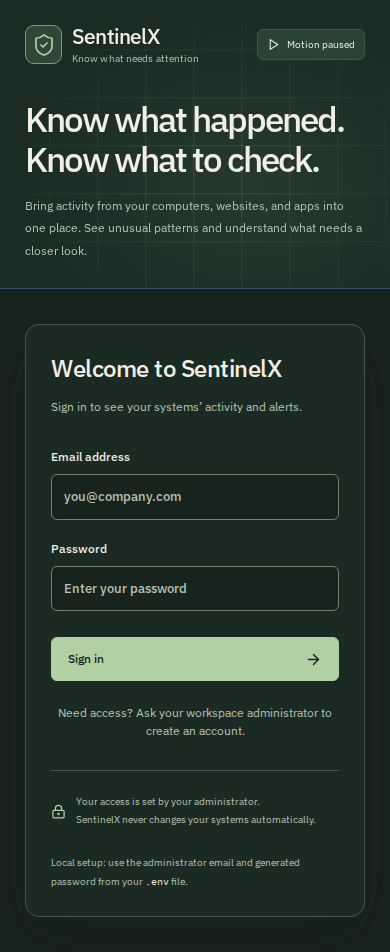
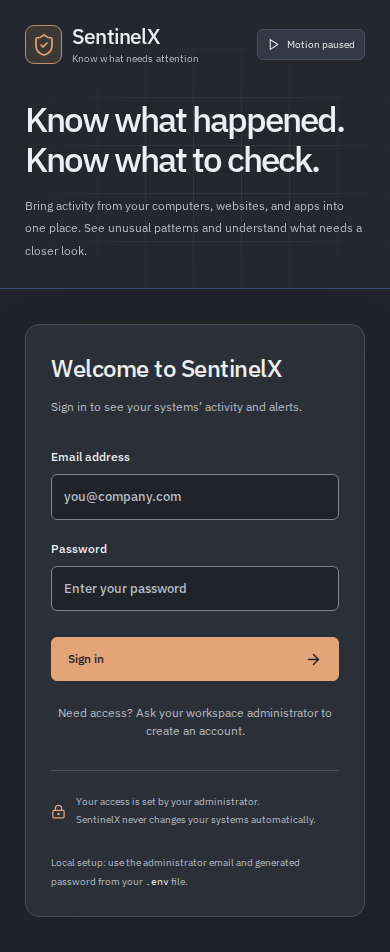
feat: frontend improvised

Changed region(s): [[0.1231, 0.6702, 0.8923, 0.7311], [0.0615, 0.0305, 0.1538, 0.0609]]

diff --git a/frontend/src/styles.css b/frontend/src/styles.css
@@ -11,27 +11,27 @@
     -apple-system,
     BlinkMacSystemFont,
     sans-serif;
-  color: #f2efe5;
-  background: #17231d;
+  color: #edeff2;
+  background: #202329;
   font-size: 15px;
   font-synthesis: none;
   text-rendering: optimizeLegibility;
   -webkit-font-smoothing: antialiased;
   color-scheme: dark;
-  --canvas: #17231d;
-  --sidebar: #1a2c24;
-  --surface: #23382e;
-  --surface-raised: #2b4336;
-  --line: #41554a;
-  --control-line: #72826e;
-  --muted: #b7c3b5;
-  --text: #f2efe5;
-  --accent: #b1d1a4;
-  --accent-hover: #c7dfbe;
-  --accent-surface: #314735;
-  --accent-border: #7f9b7d;
+  --canvas: #202329;
+  --sidebar: #24272d;
+  --surface: #2b3038;
+  --surface-raised: #333944;
+  --line: #49505a;
+  --control-line: #7c838d;
+  --muted: #b6bcc5;
+  --text: #edeff2;
+  --accent: #e3a478;
+  --accent-hover: #f0bc97;
+  --accent-surface: #3e3834;
+  --accent-border: #b98d6e;
   --blue: var(--accent);
-  --teal: #9bc9ad;
+  --teal: #93c9b2;
   --critical: #ff8e9c;
   --high: #f6b07b;
   --medium: #e8cb7c;
@@ -183,7 +183,7 @@ code {
 }
 .button.primary {
   background: var(--accent);
-  color: #17231d;
+  color: var(--canvas);
   border-color: var(--accent);
 }
 .button.primary:hover {
@@ -513,6 +513,9 @@ code {
 .nav-item.active {
   color: var(--text);
   background: var(--accent-surface);
+}
+.nav-item.active > svg {
+  color: var(--accent);
 }
 .nav-item.active::before {
   content: "";
@@ -1368,7 +1371,7 @@ tbody tr:hover {
   position: fixed;
   inset: 0;
   z-index: 100;
-  background: #101912be;
+  background: #15171bd1;
   backdrop-filter: blur(4px);
   display: flex;
   align-items: center;
@@ -2852,13 +2855,6 @@ tbody tr:hover {
   position: relative;
   overflow: hidden;
 }
-.login-story::before {
-  content: "";
-  position: absolute;
-  inset: 0;
-  background: radial-gradient(ellipse at 65% 65%, #7f9b7d1f, transparent 65%);
-  pointer-events: none;
-}
 .login-story-top {
   display: flex;
   align-items: center;
@@ -2873,7 +2869,7 @@ tbody tr:hover {
   padding: 7px 9px;
   font-size: 10px;
   color: var(--muted);
-  background: #23382e80;
+  background: var(--surface);
   border: 1px solid var(--line);
   border-radius: 6px;
   white-space: nowrap;
@@ -2905,7 +2901,7 @@ tbody tr:hover {
 .signal-flow {
   padding: 16px 17px 0;
   margin-bottom: 30px;
-  background: #17231d80;
+  background: var(--canvas);
   border: 1px solid var(--line);
   border-radius: 10px;
 }
@@ -2956,7 +2952,7 @@ tbody tr:hover {
   fill: var(--accent);
 }
 .signal-core-glow {
-  fill: var(--teal);
+  fill: var(--accent);
   opacity: 0.13;
 }
 .signal-core {
@@ -3018,8 +3014,8 @@ tbody tr:hover {
   padding: 32px;
   border: 1px solid var(--line);
   border-radius: 14px;
-  background: #23382e66;
-  box-shadow: 0 18px 60px #111c171f;
+  background: var(--surface);
+  box-shadow: 0 18px 60px #15171b1f;
 }
 .login-form-title {
   margin-bottom: 31px;

diff --git a/frontend/e2e/usability.spec.ts b/frontend/e2e/usability.spec.ts
@@ -78,6 +78,11 @@ test("the overview and advanced tools stay usable on small screens", async ({ pa
   const errors = await mockWorkspace(page);
   await page.goto("/dashboard");
   await expect(page.getByRole("heading", { name: "1 alert needs a review" })).toBeVisible();
+  await expect(page.locator(":root")).toHaveCSS("background-color", "rgb(32, 35, 41)");
+  await expect(page.locator(".sidebar")).toHaveCSS("background-color", "rgb(36, 39, 45)");
+  await expect(page.locator(".overview-alerts")).toHaveCSS("background-color", "rgb(43, 48, 56)");
+  await expect(page.locator(".nav-item.active > svg")).toHaveCSS("color", "rgb(227, 164, 120)");
+  await expect(page.locator(".badge.severity-high").first()).toHaveCSS("color", "rgb(246, 176, 123)");
   await page.evaluate(() => document.fonts.ready);
   await page.screenshot({ path: "../docs/screenshots/overview-practice.png", fullPage: true, animations: "disabled" });
   await expect(page.getByRole("link", { name: "Alert rules", exact: true })).not.toBeVisible();
@@ -277,6 +282,7 @@ test("chart windows and quick navigation support keyboard exploration", async ({
   await page.emulateMedia({ reducedMotion: "reduce" });
   await page.goto("/dashboard");
   await expect(page.locator(".chart-summary")).toContainText("300 records");
+  await expect(page.locator(".recharts-area-curve")).toHaveCSS("stroke", "rgb(227, 164, 120)");
   await page.getByRole("radio", { name: "6 hours" }).check();
   await expect(page.locator(".chart-summary")).toContainText("129 records");
   await page.getByRole("radio", { name: "6 hours" }).focus();

diff --git a/frontend/e2e/react-bits.spec.ts b/frontend/e2e/react-bits.spec.ts
@@ -3,6 +3,10 @@ import type { DashboardMetrics } from "../src/types";
 
 test("React Bits sign-in supports motion controls and mobile layouts", async ({ page }) => {
   await page.goto("/login");
+  await expect(page.locator('meta[name="theme-color"]')).toHaveAttribute("content", "#24272d");
+  await expect(page.locator(".login-story")).toHaveCSS("background-color", "rgb(36, 39, 45)");
+  await expect(page.locator(".login-form-wrap")).toHaveCSS("background-color", "rgb(43, 48, 56)");
+  await expect(page.getByRole("button", { name: "Sign in", exact: true })).toHaveCSS("background-color", "rgb(227, 164, 120)");
   await expect(page.locator('.shape-grid[data-rendered="true"]')).toBeVisible();
   await expect(page.getByRole("img", { name: /Computer, website, and app activity/ })).toBeVisible();
   await page.getByRole("button", { name: "Pause background animation", exact: true }).click();

diff --git a/frontend/index.html b/frontend/index.html
@@ -4,7 +4,7 @@
     <meta charset="UTF-8" />
     <link rel="icon" type="image/svg+xml" href="/favicon.svg" />
     <meta name="viewport" content="width=device-width, initial-scale=1.0" />
-    <meta name="theme-color" content="#1a2c24" />
+    <meta name="theme-color" content="#24272d" />
     <meta name="description" content="SentinelX security operations: collect, detect, investigate." />
     <title>SentinelX · Security operations</title>
   </head>

diff --git a/frontend/src/pages/Dashboard.tsx b/frontend/src/pages/Dashboard.tsx
@@ -85,7 +85,7 @@ export function DashboardPage() {
         <>
           <SpotlightCard
             className={`overview-review ${data.active_alerts ? "has-alerts" : ""}`}
-            spotlightColor="rgba(177, 209, 164, 0.10)"
+            spotlightColor="rgba(237, 239, 242, 0.05)"
           >
             <span className="review-symbol">
               {data.active_alerts ? <ShieldAlert size={27} /> : <CheckCheck size={27} />}

diff --git a/frontend/src/components/react-bits/react-bits.css b/frontend/src/components/react-bits/react-bits.css
@@ -42,8 +42,8 @@
   inset: 0;
   pointer-events: none;
   background-image:
-    linear-gradient(#b1d1a416 1px, transparent 1px),
-    linear-gradient(90deg, #b1d1a416 1px, transparent 1px);
+    linear-gradient(#b6bcc514 1px, transparent 1px),
+    linear-gradient(90deg, #b6bcc514 1px, transparent 1px);
   background-size: 48px 48px;
   mask-image: radial-gradient(ellipse at 55% 60%, black 15%, transparent 80%);
 }

diff --git a/frontend/src/components/react-bits/ShapeGrid.tsx b/frontend/src/components/react-bits/ShapeGrid.tsx
@@ -14,8 +14,8 @@ interface ShapeGridProps {
 export function ShapeGrid({
   speed = 7,
   squareSize = 48,
-  borderColor = "rgba(177, 209, 164, 0.12)",
-  hoverFillColor = "rgba(155, 201, 173, 0.10)",
+  borderColor = "rgba(182, 188, 197, 0.08)",
+  hoverFillColor = "rgba(227, 164, 120, 0.06)",
   paused = false,
 }: ShapeGridProps) {
   const containerRef = useRef<HTMLDivElement>(null);

diff --git a/frontend/src/components/react-bits/SpotlightCard.tsx b/frontend/src/components/react-bits/SpotlightCard.tsx
@@ -10,7 +10,7 @@ interface SpotlightCardProps extends PropsWithChildren {
 export function SpotlightCard({
   children,
   className = "",
-  spotlightColor = "rgba(177, 209, 164, 0.13)",
+  spotlightColor = "rgba(237, 239, 242, 0.06)",
 }: SpotlightCardProps) {
   const ref = useRef<HTMLDivElement>(null);
 

diff --git a/docs/frontend.md b/docs/frontend.md
@@ -7,7 +7,7 @@ SentinelX adapts four TypeScript components from [React Bits](https://reactbits.
 - [CountUp](https://reactbits.dev/text-animations/count-up): brief transitions between real, server-provided metrics using Motion. Screen readers always receive the final number, not intermediate animation values. Reduced motion displays values immediately.
 - [Stepper](https://reactbits.dev/components/stepper): short connection setup stages with controlled navigation, validation gates, a final review, focus management, and reduced-motion support. The one-time settings must be saved before proceeding; closing without them prompts a warning. Commands are instructions only and are never executed by the browser.
 
-The forest-green surfaces, soft moss accents, warm light text, and IBM Plex typography stay consistent across sign-in, charts, tables, dialogs, and the evidence workspace. Priority colors remain distinct from the main accent. Motion is concentrated on sign-in, metric changes, and user-triggered step changes; investigation tables and timelines remain steady. The signal diagram on sign-in is illustrative, not a live feed.
+The graphite background, neutral grey surfaces, pale text, and IBM Plex typography stay consistent across sign-in, charts, tables, dialogs, and the evidence workspace. Soft copper accents mark controls, selected navigation, and chart lines rather than tinting the whole dashboard. Priority badges and connection-status indicators keep their semantic colors. Motion is concentrated on sign-in, metric changes, and user-triggered step changes; investigation tables and timelines remain steady. The signal diagram on sign-in is illustrative, not a live feed.
 
 These adaptations are in `frontend/src/components/react-bits/`. Their upstream source is the [React Bits repository](https://github.com/DavidHDev/react-bits). Copyright David Haz; **MIT + Commons Clause**, with the full notice in that directory's `LICENSE.md`. SentinelX's own code remains MIT; the adapted components retain their upstream terms.
 
